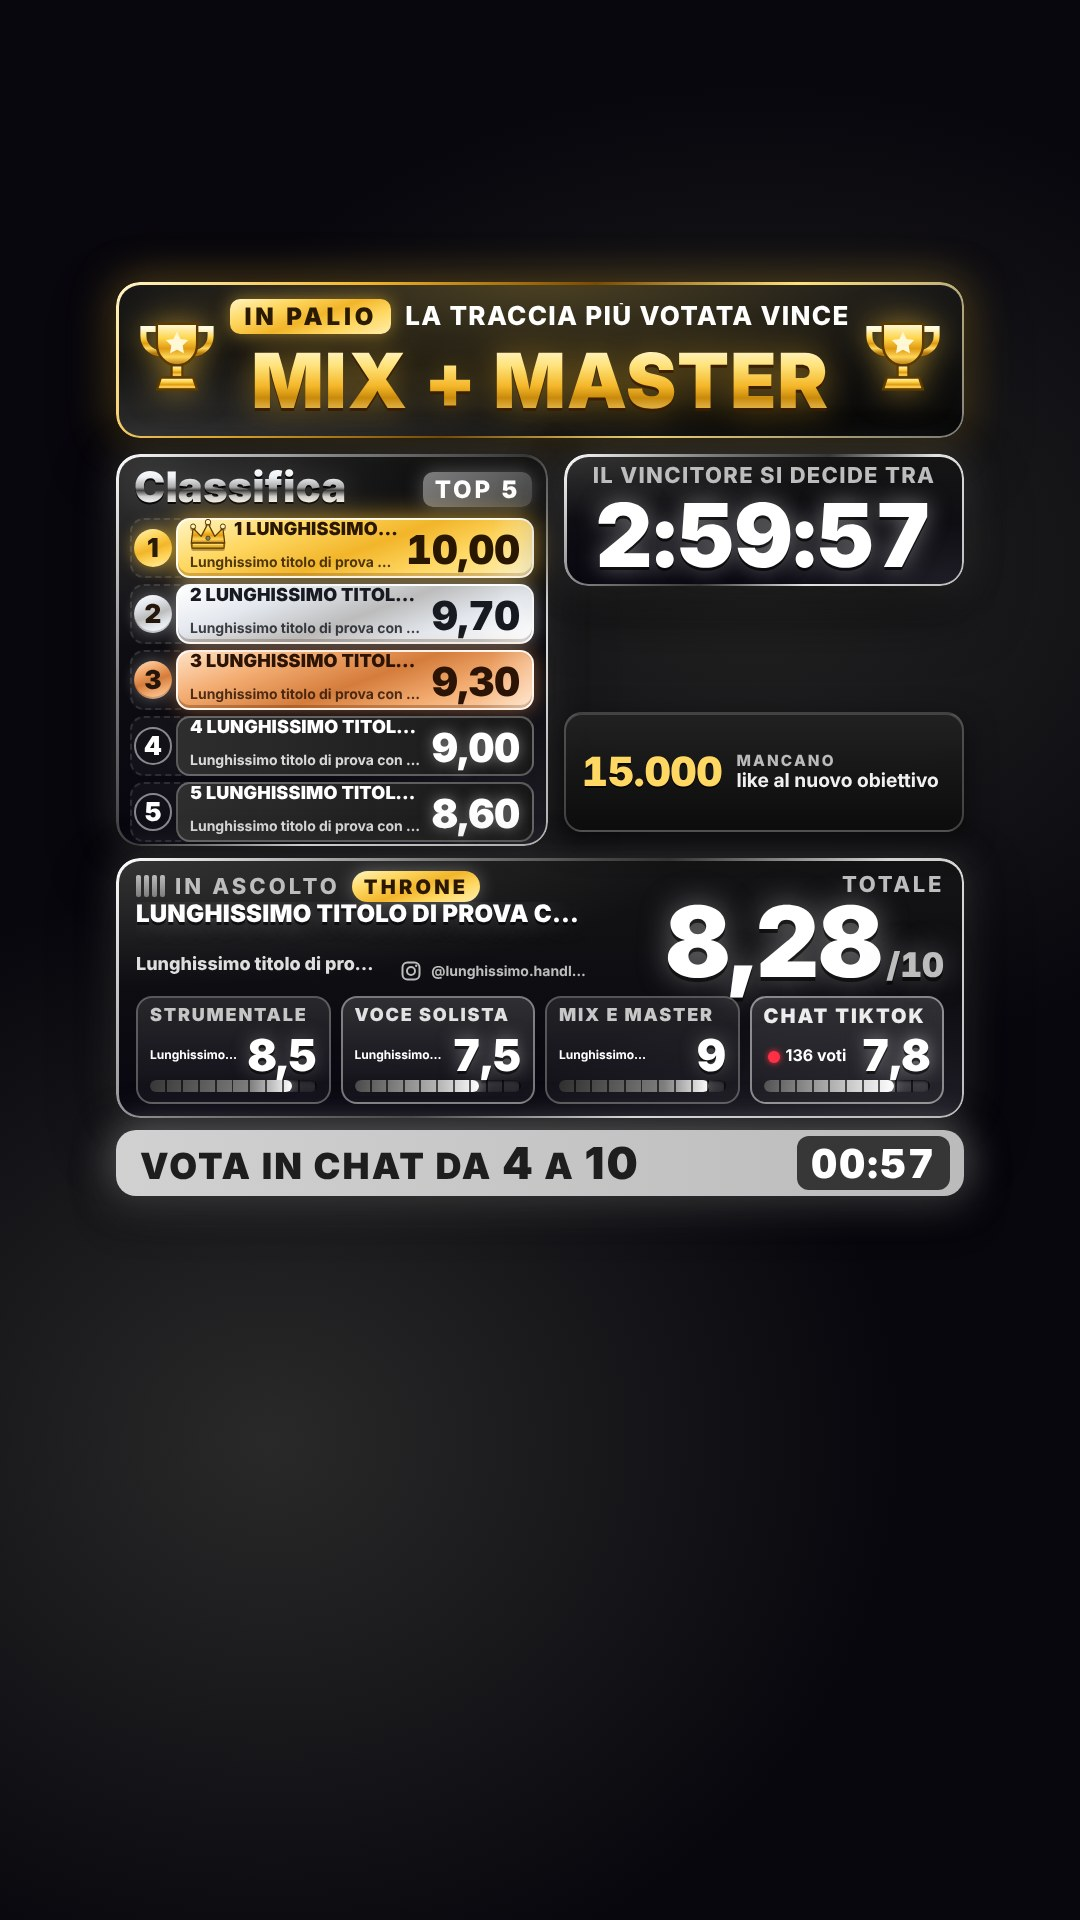
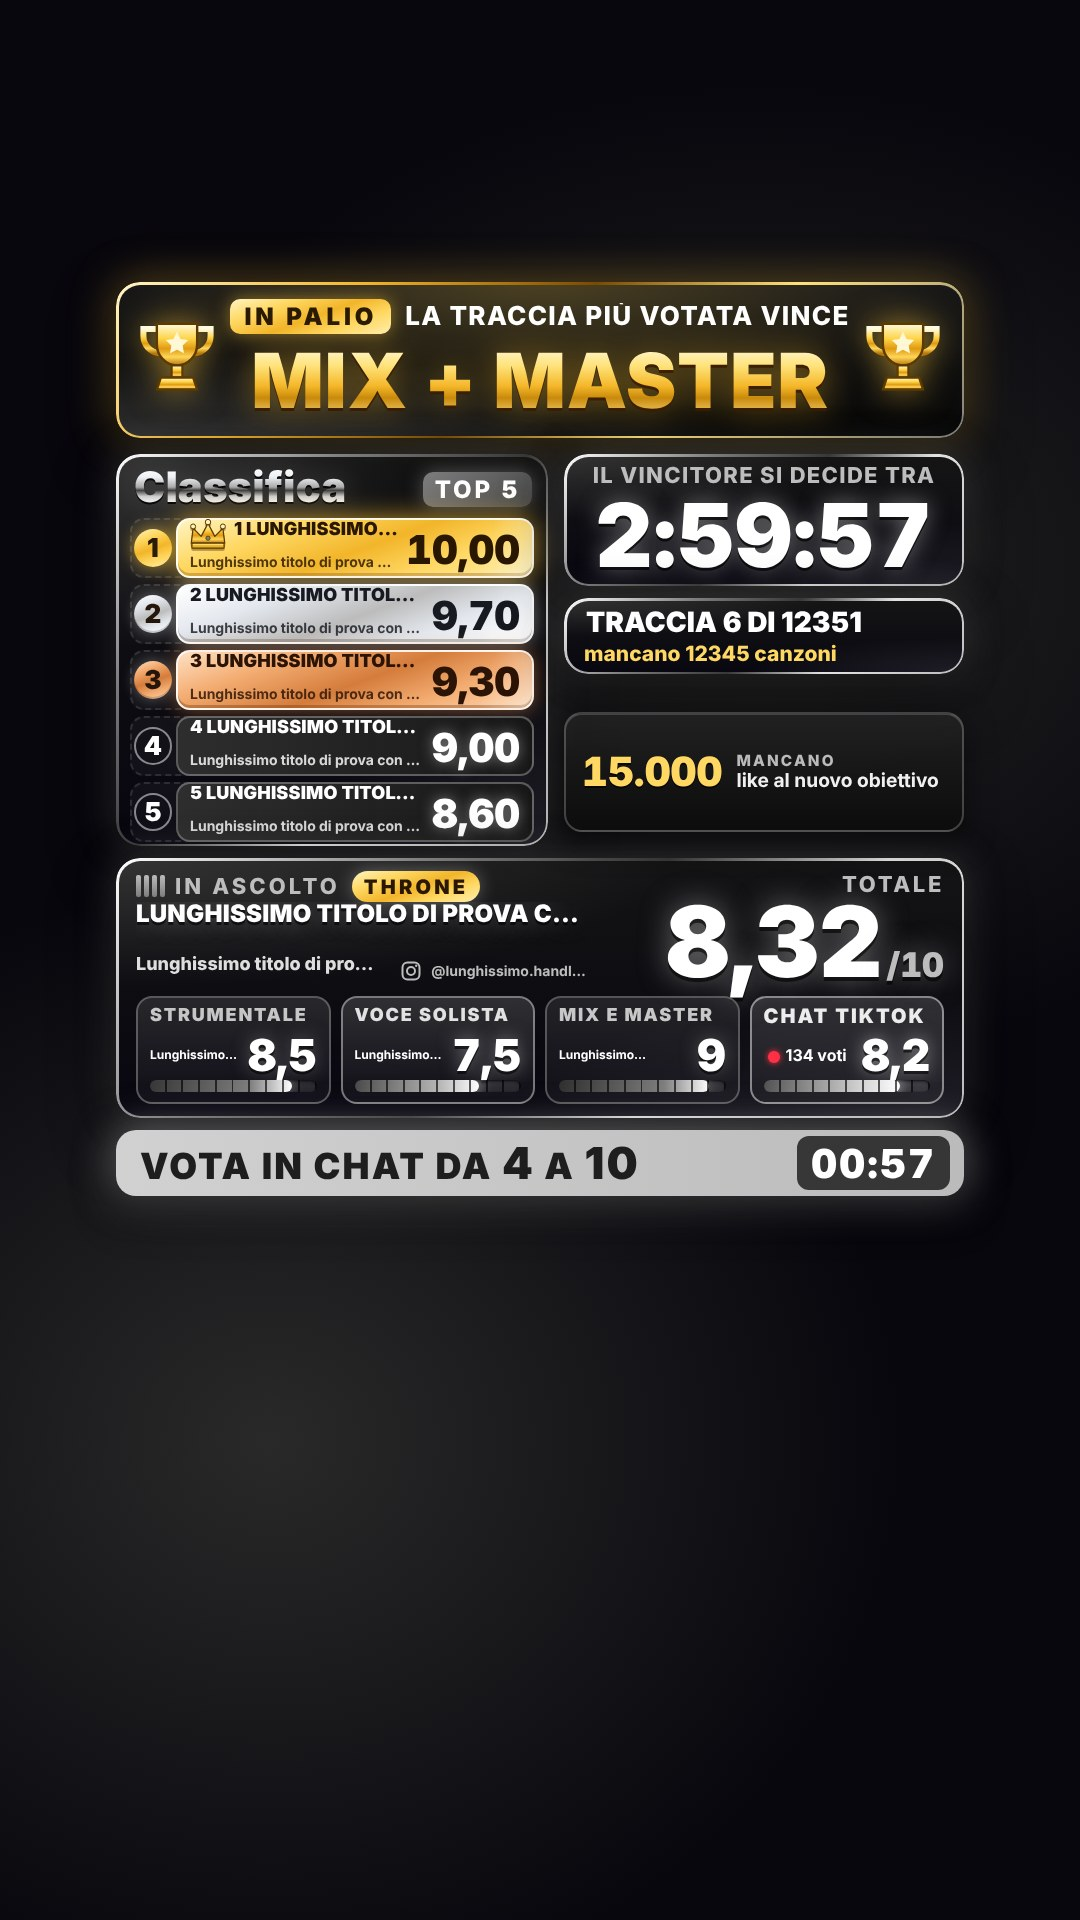
Gara: «Traccia N di TOT · mancano X» con la coda vera di Nero, Instagram dell'artista e controlli stabili [skip netlify]
Claude-Session: https://claude.ai/code/session_01KknJSv8vijv85bNpvfWr5a

Changed region(s): [[0.5194, 0.3125, 0.7944, 0.3438], [0.7028, 0.4688, 0.825, 0.5312], [0.7944, 0.5312, 0.8556, 0.5625]]

diff --git a/overlay-live/public/js/overlay.js b/overlay-live/public/js/overlay.js
@@ -7,6 +7,7 @@ import { collega, formatta, durata } from "./connessione.js";
 import { suona, volume } from "./suoni.js";
 import { suoniTraccia, cambiClassifica, suoniClassifica, suoniTimer, suonaIn, RITARDO_CLASSIFICA_MS, SOGLIA_URGENTE_MS } from "./eventi-sonori.js";
 import { adattaTesto } from "./pagina.js";
+import { avanzamentoCoda } from "./barra.js";
 import { creaGoal } from "./goal.js";
 import { chiaveGoal } from "./goal-logica.js";
 import { disegnaAlbero } from "./albero.js";
@@ -201,6 +202,8 @@ const CORPI = {
   rigaArtista: [22, 14], // artista di una riga della classifica
   etichettaTimer: [22, 12], // «Il vincitore si decide tra»
   instagram: [24, 14], // @instagram dell'artista, accanto all'artista
+  codaRiga: [28, 16], // «Traccia 15 di 38»
+  codaSotto: [21, 12], // «mancano 23 canzoni»
 };
 const adatta = (nodo, chiave) => adattaTesto(nodo, ...CORPI[chiave]);
 // Scrive un testo e, se è cambiato, lo riadatta al riquadro.
@@ -210,7 +213,20 @@ function scrivi(nodo, testo, chiave) {
   adatta(nodo, chiave);
 }
 
+// «Traccia 15 di 38» e «mancano 23 canzoni»: il numero della traccia sul totale vero della coda di Nero, così chi entra in live capisce
+// che conviene skippare. Senza il dato di Nero (o senza tracce ascoltate) il riquadro non c'è.
+const codaNero = { el: $("#coda-nero"), riga: $("#coda-riga"), sotto: $("#coda-sotto") };
+function disegnaCodaNero(s) {
+  const a = avanzamentoCoda(s);
+  codaNero.el.hidden = !a;
+  codaNero.el.classList.toggle("fuori", !s.visibili.tabellone);
+  if (!a) return;
+  scrivi(codaNero.riga, `Traccia ${a.numero} di ${a.totale}`, "codaRiga");
+  scrivi(codaNero.sotto, a.mancano === 0 ? "è l'ultima canzone" : a.mancano === 1 ? "manca 1 canzone" : `mancano ${a.mancano} canzoni`, "codaSotto");
+}
+
 function disegnaTabellone(s) {
+  disegnaCodaNero(s);
   const t = s.corrente;
   const p = t.punteggi;
   // Nomi delle quattro voci e intervallo dei voti dalla votazione (regia: Serata → Voti della gara).
@@ -238,6 +254,7 @@ function disegnaTabellone(s) {
     tab.artista.textContent = "";
   }
   scrivi(tab.artista, t.artista, "artista");
+  // «15 di 38 · mancano 23»: il numero della traccia sul totale vero della coda di Nero, così chi entra capisce che conviene skippare
   tab.tier.hidden = !TIER[t.tier];
   tab.tier.textContent = TIER[t.tier] ?? "";
   tab.tier.className = `tier ${t.tier ?? ""}`;

diff --git a/overlay-live/public/css/overlay.css b/overlay-live/public/css/overlay.css
@@ -491,6 +491,49 @@ body.anteprima {
   100% { box-shadow: 0 0 0 24px rgba(255, 255, 255, 0), 0 0 0 rgba(255, 255, 255, 0); }
 }
 
+/* ---------- Traccia N di TOTALE (coda di Nero) ---------- */
+/* Sta sotto il timer; la notifica «Nuovo primo posto!» (stessa zona, solo per 6 secondi) la copre di proposito. */
+.coda-nero {
+  box-sizing: border-box;
+  display: flex;
+  flex-direction: column;
+  justify-content: center;
+  padding: 6px 20px 6px;
+}
+.verticale .coda-nero {
+  left: var(--x-destra);
+  top: 598px;
+  width: var(--largo-destra);
+  height: 76px;
+}
+.coda-nero[hidden] {
+  display: none;
+}
+.coda-riga {
+  box-sizing: border-box;
+  height: 36px;
+  font: 900 28px/36px var(--font-dati);
+  letter-spacing: 0;
+  padding: 0 6px 0 2px;
+  text-transform: uppercase;
+  color: #fff;
+  white-space: nowrap;
+  overflow: hidden;
+  text-overflow: ellipsis;
+}
+.coda-sotto {
+  box-sizing: border-box;
+  height: 28px;
+  font: 800 21px/28px var(--font-dati);
+  color: #ffd863;
+  white-space: nowrap;
+  overflow: hidden;
+  text-overflow: ellipsis;
+}
+.coda-nero.fuori {
+  opacity: 0 !important;
+}
+
 /* ---------- Timer ---------- */
 .timer {
   display: flex;

diff --git a/overlay-live/public/overlay.html b/overlay-live/public/overlay.html
@@ -88,6 +88,12 @@
       </div>
     </div>
 
+    <!-- TRACCIA N DI TOTALE: quante canzoni mancano in coda su Nero (si legge da Nero; spenta se non si sa) -->
+    <section class="pannello coda-nero" data-widget="tabellone" id="coda-nero" hidden>
+      <div class="coda-riga" id="coda-riga"></div>
+      <div class="coda-sotto" id="coda-sotto"></div>
+    </section>
+
     <!-- TABELLONE TRACCIA IN ASCOLTO -->
     <section class="pannello tabellone" data-widget="tabellone">
       <div class="tab-alto">
